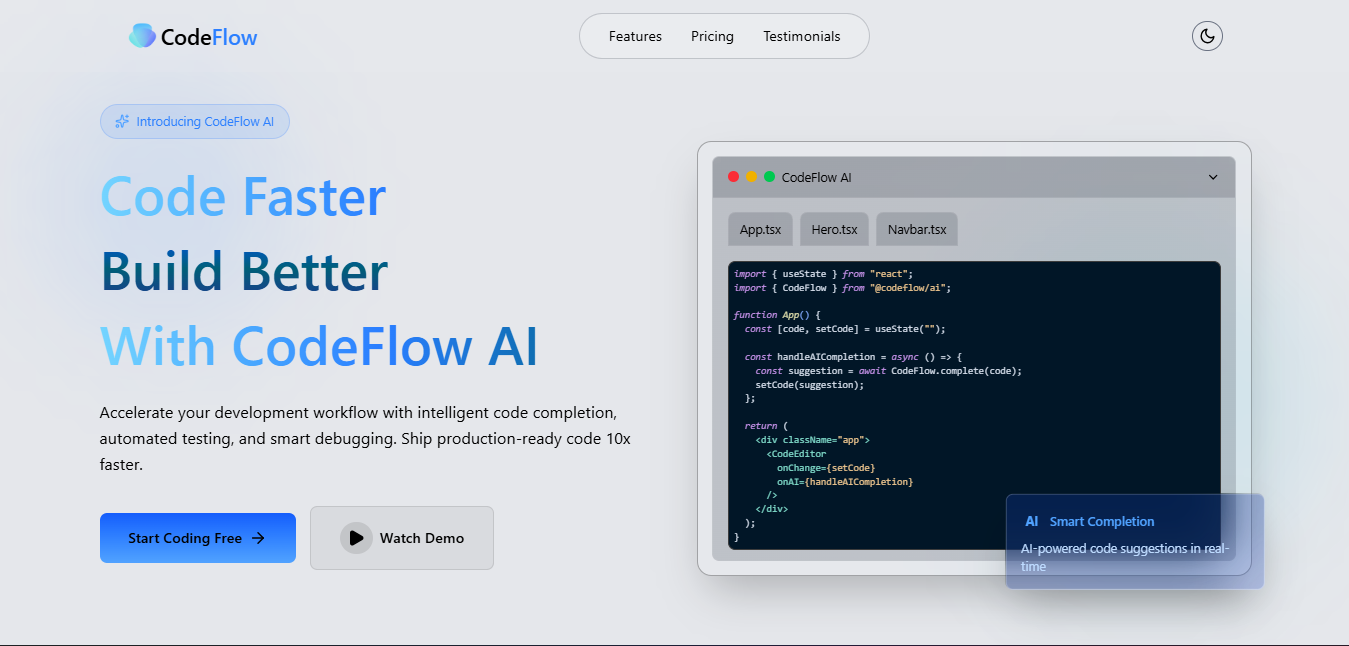
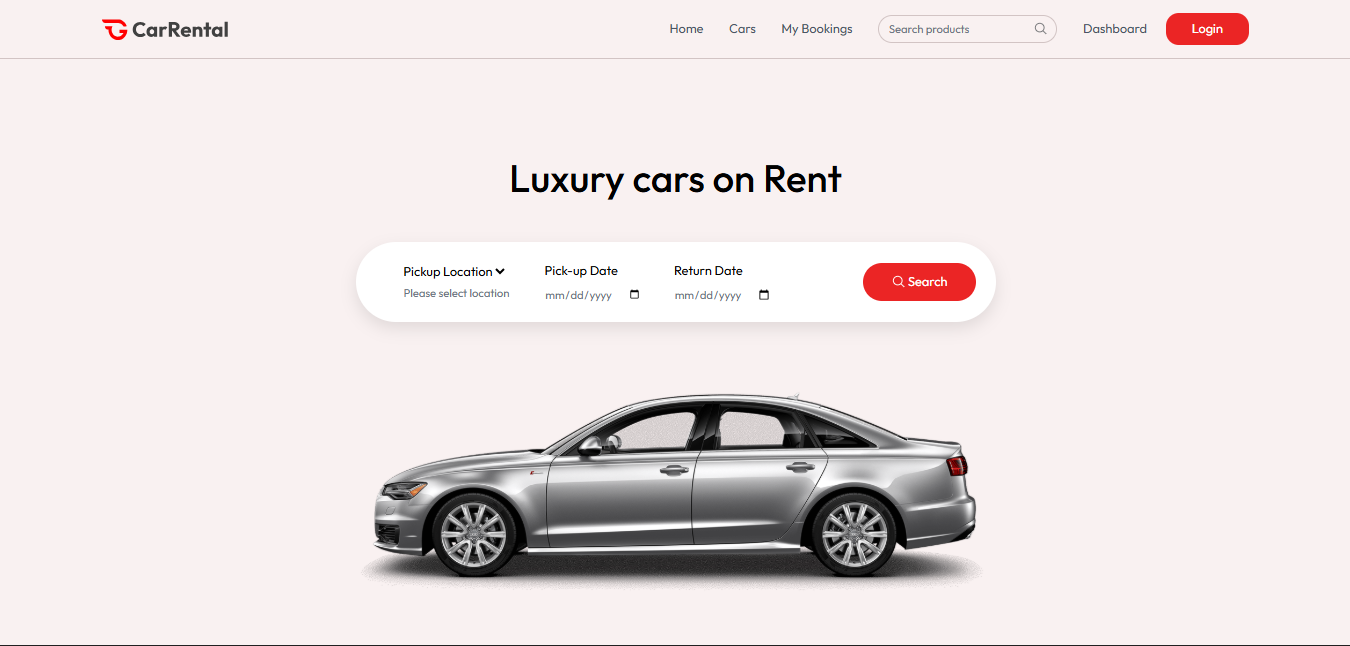
fix

diff --git a/src/assets/assets.ts b/src/assets/assets.ts
@@ -81,40 +81,40 @@ export const highlights = [
 
 export const projects = [
     {
-        title: 'Velora Suites',
+        title: 'Hotel-Booking',
         description:
-            'A modern luxury hotel offering elegantly designed rooms, exceptional comfort, and a refined stay experience for both relaxation and convenience.',
+            'It is a service that allows user to search, compare, and reserve hotel rooms online. It provides details on pricing, availability, and amenities, making it easy for travelers to find and book comfortable accommodations for their trips.',
         image: project1,
         tags: ['React', 'Javascript', 'NodeJS', 'Clerk', 'React-dom', 'React-router-dom'],
         link: '#',
-        github: '#',
+        github: 'https://hotel-booking-seven-green.vercel.app/',
     },
     {
-        title: 'CodeFlow',
+        title: 'CarRental',
         description:
-            'A developer-focused platform designed to streamline coding workflows, making it easier to build, manage, and scale projects efficiently.',
+            'It is a convenient service that allows customers to rent vehicles for personal or business use. It offers a variety of cars to choose from, flexible booking options, and affordable pricing, making transportation easy and accessible.',
         image: project2,
-        tags: ['React', 'Node.js', 'Typescript',],
+        tags: ['React', 'tailwindcss', 'react-hot-toast', 'react-icons', 'react-router-dom',],
         link: '#',
-        github: '#',
+        github: 'https://cars-eight-omega.vercel.app/',
     },
     {
-        title: 'Agency.ai',
+        title: 'QuickCart',
         description:
-            'An AI-powered platform concept that brings marketing, analytics, and automation into one seamless experience, designed to simplify operations and support scalable business growth.',
+            'It is a modern e-commerce platform that allows users to browse products, add items to their cart, and complete purchases quickly and securely. It provides a smooth, shopping experience with an intuitive interface, efficient product management, and seamless checkout functionality.',
         image: project3,
-        tags: ['React', 'Motion', 'Picomatch', 'React-dom', 'React-hot-toast', 'tailwindcss'],
+        tags: ['React', 'React-dom', 'React-hot-toast', 'tailwindcss', 'React-router-dom'],
         link: '#',
-        github: '#',
+        github: 'https://quick-cart-two-gilt.vercel.app/',
     },
     {
-        title: 'QuickGPT',
+        title: 'gocart',
         description: 
-            'A fast, AI-powered assistance designed to deliver instant responses and streamline everyday tasks with speed and simplicity.',
+            'It is a fast and user-friendly e-commerce platform that allows users to browser products, add items to their cart, and make secure purchases. It is designed to provide a smooth and convenient online shopping experience with quick navigation and easy checkout.',
         image: project4,
-        tags: ['React', 'moment', 'prismjs', 'react-dom', 'react-icons', 'react-markdown', 'react-router-dom'],
+        tags: ['React', 'redux.js', 'lucide-react', 'react-dom', 'react-redux', 'react-dom', 'react-router-dom', 'recharts', 'tailwindcss'],
         link: '#',
-        github: '#',
+        github: 'https://gocart-jg7i.vercel.app/',
     },
 ];
 